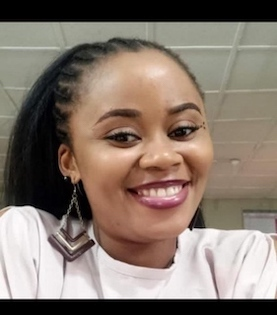
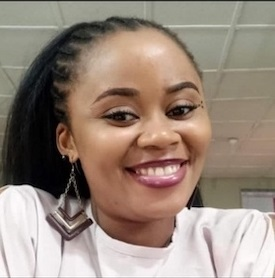
fix: Image positioning fixed

diff --git a/index.html b/index.html
@@ -1,139 +1,129 @@
 <!DOCTYPE html>
 <html lang="en">
-  <head>
-    <meta charset="UTF-8" />
-    <meta name="viewport" content="width=device-width, initial-scale=1.0" />
-    <title>My Programming Aspirations For The Next 2Years</title>
-    <style>
-      body {
-        font-family: Verdana, Geneva, Tahoma, sans-serif;
-        margin: 1rem 0.5rem;
-        padding: 0;
-        display: flex;
-        flex-direction: column;
-        gap: 1rem;
-        align-items: center;
-        min-height: 100vh;
-        background-color: none;
-      }
-      .container {
-        max-width: 700px;
-        width: 100%;
-        background-color: #ffffffe7;
-        padding: 20px;
-        box-shadow: 0 0 10px rgba(0, 0, 0, 0);
-        border-radius: 7px;
-        text-align: center;
-      }
 
-      .profile-picture {
-        border-radius: 50%;
-      }
+<head>
+  <meta charset="UTF-8" />
+  <meta name="viewport" content="width=device-width, initial-scale=1.0" />
+  <title>My Programming Aspirations For The Next 2 Years</title>
+  <link rel="stylesheet" href="https://cdnjs.cloudflare.com/ajax/libs/font-awesome/6.0.0-beta3/css/all.min.css" />
+  <link rel="stylesheet" href="https://fonts.googleapis.com/css2?family=Roboto:wght@400;700&display=swap" />
+  <style>
+    body {
+      padding: 0;
+      margin: 0;
+      box-sizing: border-box;
+      font-family: 'Roboto', sans-serif;
+      background-color: #f4f4f9;
+      color: #333;
+    }
 
-      .profile p,
-      .time-info p,
-      .goals ul {
-        margin: 10px 0;
-      }
+    .container {
+      max-width: 800px;
+      margin: 2rem auto;
+      padding: 2rem;
+      background-color: #ffffff;
+      border-radius: 10px;
+      box-shadow: 0 4px 8px rgba(0, 0, 0, 0.1);
+      text-align: center;
+    }
 
-      .goals ul {
-        list-style-type: none;
-        padding: 1;
-      }
+    h2 {
+      color: #007bff;
+      margin-bottom: 1rem;
+    }
 
-      .goals li {
-        background-color: cyan;
-        margin: 5px 0;
-        padding: 10px;
-        border-radius: 4px;
-      }
+    .profile-picture {
+      width: 150px;
+      height: 150px;
+      border-radius: 50%;
+      box-shadow: 0 4px 8px rgba(0, 0, 0, 0.1);
+      margin-bottom: 1rem;
+    }
 
-      .links p {
-        margin: 8px 0;
-      }
+    .profile p {
+      margin: 0.5rem 0;
+      font-size: 1rem;
+    }
 
-      .links a {
-        color: #007bff;
-        text-decoration: none;
-      }
+    .time-info p {
+      margin: 0.5rem 0;
+      font-size: 1rem;
+    }
 
-      .links a:hover {
-        text-decoration: underline;
-      }
-    </style>
-  </head>
-  <body>
-    <div class="container">
-      <h2>SANDRA CHIZOBA DURU (AdiTech, ICT INSTRUCTOR)</h2>
-      <div class="profile">
-        <img
-          src="./sandra.jpg"
-          alt="Slack Profile Picture"
-          data-testid="slackProfilePicture"
-          class="profile-picture"
-        />
-        <p>Slack Name: <span data-testid="slackDisplayName">@Chizzy</span></p>
-        <p>
-          Slack Email:
-          <span data-testid="slackEmail">chisandra96@gmail.com</span>
-        </p>
-      </div>
-      <div class="time-info">
-        <p>Current Time (UTC): <span data-testid="currentTimeUTC"></span></p>
-        <p>Current Day: <span data-testid="currentDay"></span></p>
-      </div>
-      <div class="My goals">
-        <h2>MY PROGRESSIVE GOALS</h2>
-        <ul>
-          <li>Become a Certified Frontend Developer</li>
-          <li>
-            Grow Immersely in my Programming Skills,<marquee
-              >to help harness the Creativity of Yound Minds</marquee
-            >
-          </li>
-          <li>
-            Advanced Progressively In My Career as an ICT Instructor,<marquee
-              >and Computer science Educator</marquee
-            >
-          </li>
-          <li>
-            Attend both educational and tech conferences to expand my
-            professional network.
-          </li>
-        </ul>
-      </div>
-      <div class="links">
-        <p>
-          <a href="https://hng.tech/learn" data-testid="hngLink">HNG Tech</a>
-        </p>
-        <p>
-          <a href="https://keyword.dog" data-testid="keywordLink"
-            >Keyword Dog</a
-          >
-        </p>
-        <p>
-          <a href="https://scrapeanyweb.site" data-testid="scrapeanywebLink"
-            >Scrape Any Web</a
-          >
-        </p>
-      </div>
+    .my-goals {
+      margin: 2rem 0;
+    }
+
+    .goals ul {
+      list-style-type: none;
+      padding: 0;
+    }
+
+    .goals li {
+      background-color: #007bff;
+      color: #ffffff;
+      margin: 0.5rem 0;
+      padding: 1rem;
+      border-radius: 5px;
+      font-size: 1rem;
+      box-shadow: 0 4px 8px rgba(0, 0, 0, 0.1);
+    }
+
+    .links a {
+      color: #007bff;
+      text-decoration: none;
+      font-size: 1rem;
+    }
+
+    .links a:hover {
+      text-decoration: underline;
+    }
+  </style>
+</head>
+
+<body>
+  <div class="container">
+    <h2>Sandra Chizoba Duru (AdiTech, ICT Instructor)</h2>
+    <div class="profile">
+      <img src="./sandra.jpg" alt="Slack Profile Picture" data-testid="slackProfilePicture" class="profile-picture" />
+      <p>Slack Name: <span data-testid="slackDisplayName">@Chizzy</span></p>
+      <p>Slack Email: <span data-testid="slackEmail">chisandra96@gmail.com</span></p>
     </div>
-    <script>
-      function updateTimeAndDay() {
-        const currentTimeUTC = new Date().toUTCString();
-        const currentDay = new Date().toLocaleString("en-US", {
-          weekday: "long",
-        });
+    <div class="time-info">
+      <p>Current Time (UTC): <span data-testid="currentTimeUTC"></span></p>
+      <p>Current Day: <span data-testid="currentDay"></span></p>
+    </div>
+    <div class="my-goals">
+      <h2>My Progressive Goals</h2>
+      <ul class="goals">
+        <li>Become a Certified Frontend Developer</li>
+        <li>Grow immensely in my programming skills to help harness the creativity of young minds</li>
+        <li>Advance progressively in my career as an ICT Instructor and Computer Science Educator</li>
+        <li>Attend both educational and tech conferences to expand my professional network</li>
+      </ul>
+    </div>
+    <div class="links">
+      <p><a href="https://hng.tech/learn" data-testid="hngLink"><i class="fas fa-external-link-alt"></i> HNG Tech</a>
+      </p>
+      <p><a href="https://keyword.dog" data-testid="keywordLink"><i class="fas fa-external-link-alt"></i> Keyword
+          Dog</a></p>
+      <p><a href="https://scrapeanyweb.site" data-testid="scrapeanywebLink"><i class="fas fa-external-link-alt"></i>
+          Scrape Any Web</a></p>
+    </div>
+  </div>
+  <script>
+    function updateTimeAndDay() {
+      const now = new Date();
+      const currentTimeUTC = now.toUTCString();
+      const currentDay = now.toLocaleString("en-US", { weekday: "long" });
 
-        document.querySelector('[data-testid="currentTimeUTC"]').textContent =
-          currentTimeUTC;
-        document.querySelector('[data-testid="currentDay"]').textContent =
-          currentDay;
-      }
+      document.querySelector('[data-testid="currentTimeUTC"]').textContent = currentTimeUTC;
+      document.querySelector('[data-testid="currentDay"]').textContent = currentDay;
+    }
 
-      // Update time and day immediately and every minute
-      updateTimeAndDay();
-      setInterval(updateTimeAndDay, 60000);
-    </script>
-  </body>
+    updateTimeAndDay();
+    setInterval(updateTimeAndDay, 1000);
+  </script>
+</body>
+
 </html>
